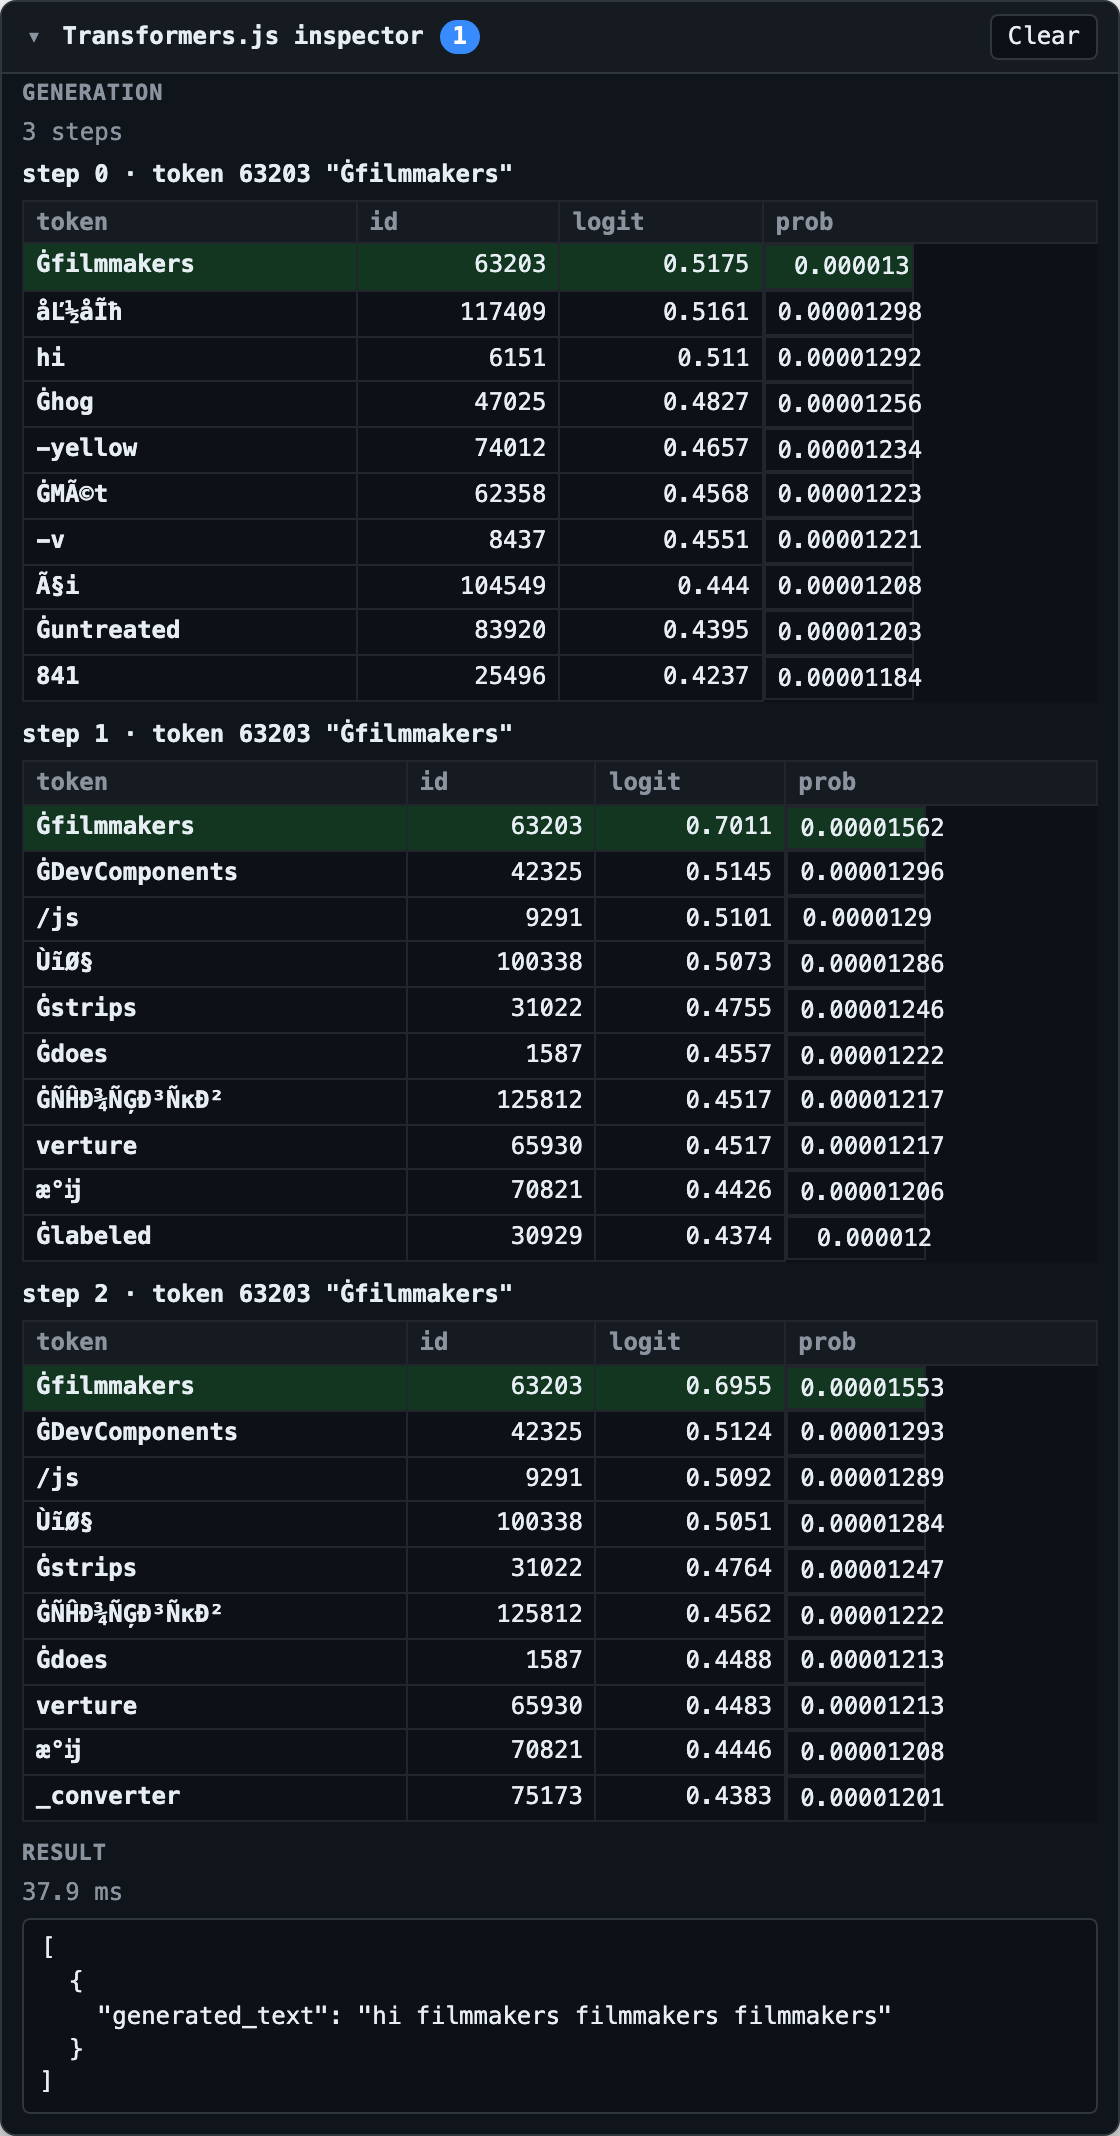
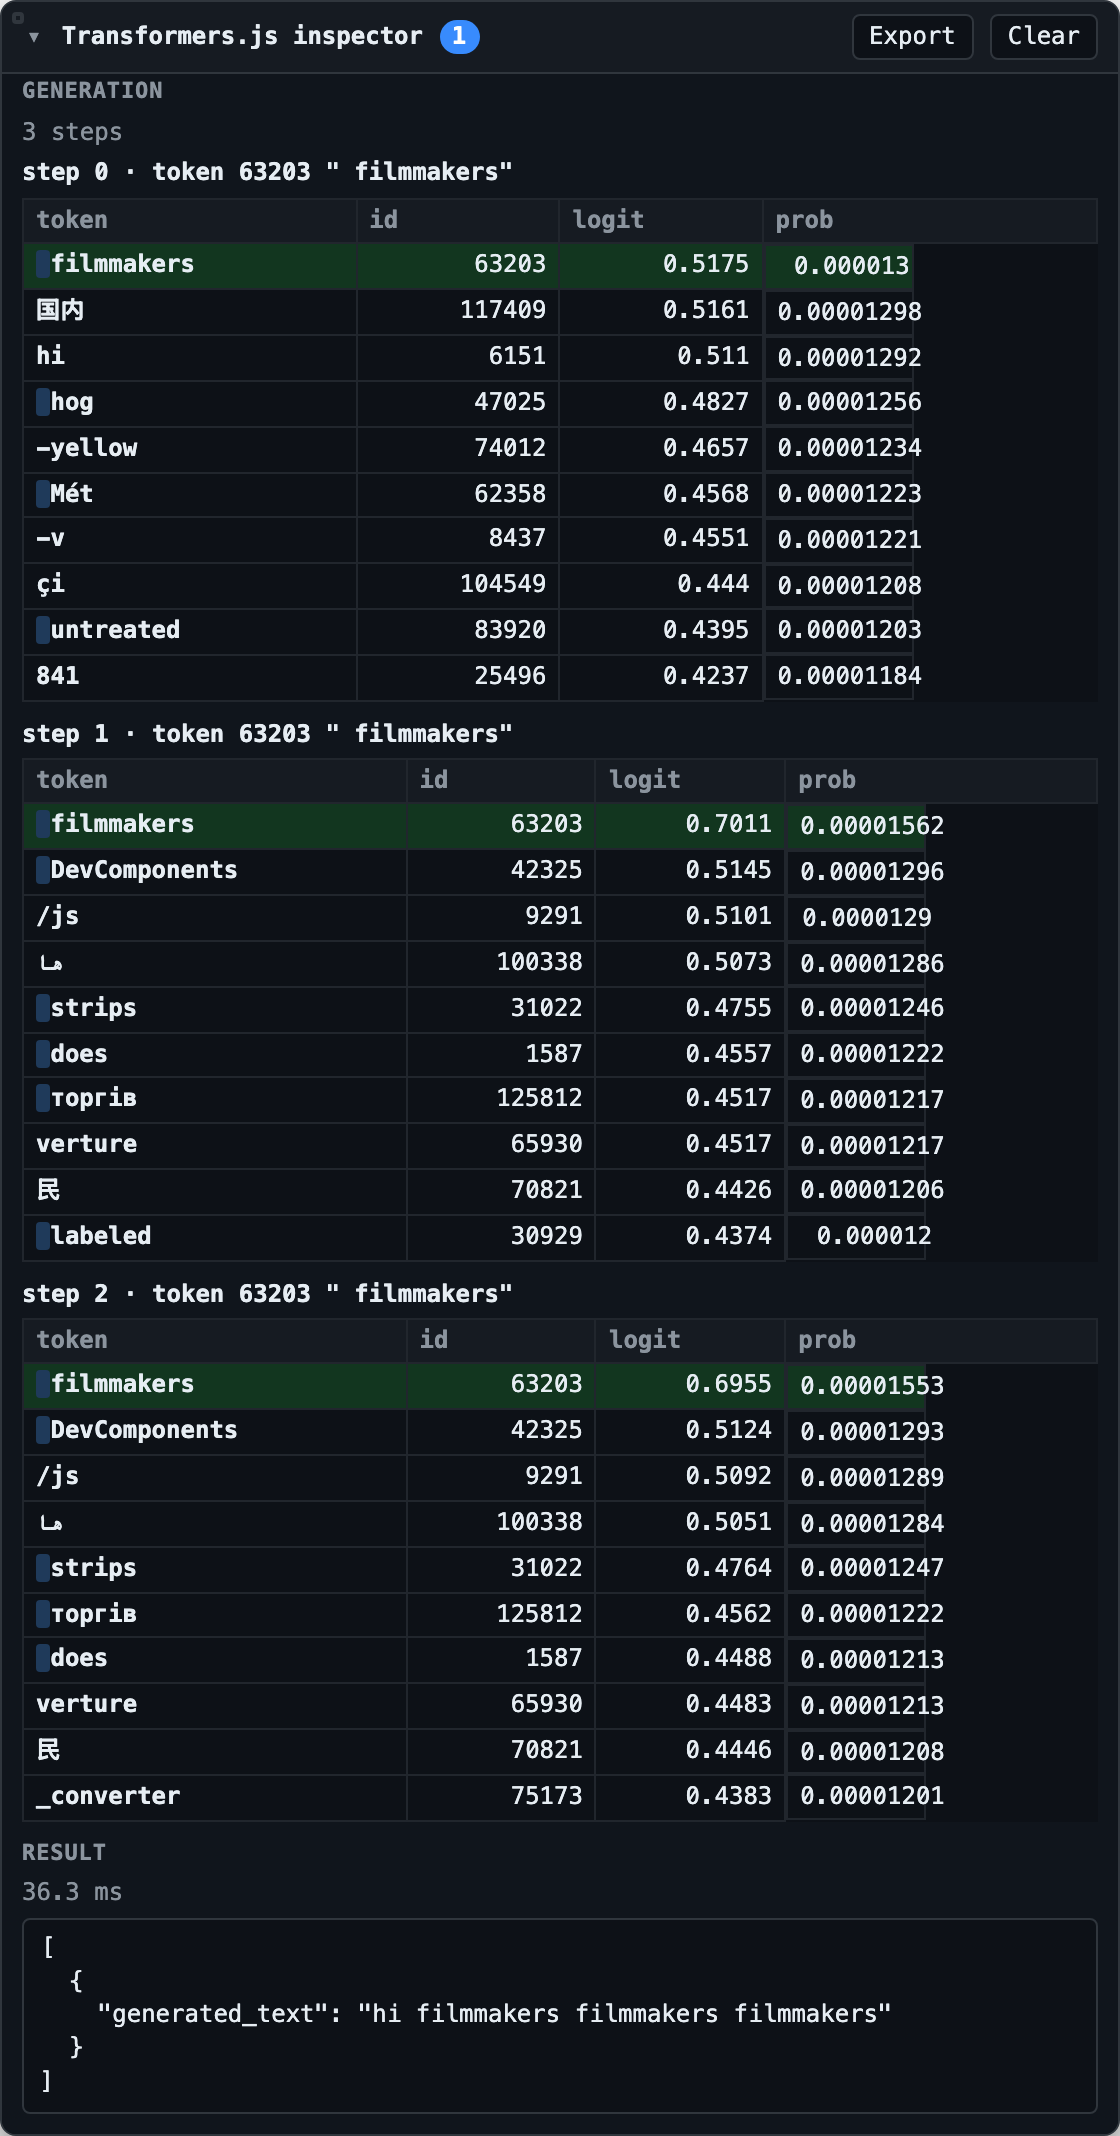
Release 0.2.0
Decoded token strings with raw vocab on hover, dark theme with a theme
option, dock corners and drag-to-resize, media previews (waveforms, image
thumbnails, tensor-as-image), export of the event stream, and replay of
captured calls. Screenshots regenerated.

diff --git a/src/version.ts b/src/version.ts
@@ -1,2 +1,2 @@
 /** Package version, mirrored from `package.json` (asserted by `test/smoke.test.ts`). Lives here so `export.ts` can import it without a cycle through `index.ts`. */
-export const VERSION = '0.1.1';
+export const VERSION = '0.2.0';

diff --git a/README.md b/README.md
@@ -11,7 +11,7 @@ generation, and the pipeline's decoded result.
 Zero runtime dependencies. Nothing on disk is patched; every hook is a runtime wrap of a
 method on an instance Transformers.js exposes. Nothing leaves the tab.
 
-**Status:** v0.1.0, verified against `@huggingface/transformers` 4.2.0 (Transformers.js
+**Status:** v0.2.0, verified against `@huggingface/transformers` 4.2.0 (Transformers.js
 4.x only). Not yet published to npm; the CDN URLs below resolve once it is.
 
 ## 30-second usage
@@ -43,7 +43,7 @@ Script tag, with Transformers.js from a CDN:
 ```html
 <script type="module">
   import { pipeline } from 'https://cdn.jsdelivr.net/npm/@huggingface/transformers@4.2.0';
-  import { attach } from 'https://cdn.jsdelivr.net/npm/transformersjs-inspector@0.1.0/dist/index.js';
+  import { attach } from 'https://cdn.jsdelivr.net/npm/transformersjs-inspector@0.2.0/dist/index.js';
 
   const pipe = await pipeline('text-generation', 'onnx-community/tiny-random-LlamaForCausalLM-ONNX');
   attach(pipe);
@@ -184,7 +184,7 @@ The file shape (`InspectorExport`):
 
 ```jsonc
 {
-  "version": "0.1.1",                  // library version that wrote it
+  "version": "0.2.0",                  // library version that wrote it
   "exportedAt": "2026-09-11T09:05:07.123Z",
   "events": [ /* InspectorEvent[], exactly as emitted, oldest first */ ]
 }
@@ -230,7 +230,7 @@ evaluates, whose `InferenceSession.create` wraps every session's `run`. Load it 
 script **before** the script that loads Transformers.js:
 
 ```html
-<script type="module" src="https://cdn.jsdelivr.net/npm/transformersjs-inspector@0.1.0/dist/preload.js"></script>
+<script type="module" src="https://cdn.jsdelivr.net/npm/transformersjs-inspector@0.2.0/dist/preload.js"></script>
 <script type="module">
   import { pipeline } from 'https://cdn.jsdelivr.net/npm/@huggingface/transformers@4.2.0';
   const pipe = await pipeline('feature-extraction', 'Xenova/all-MiniLM-L6-v2', { device: 'auto' });

diff --git a/AGENTS.md b/AGENTS.md
@@ -36,7 +36,7 @@ src/panel/   vanilla-DOM panel: model (reducer), dom (h()), styles, render, pane
 test/        Vitest unit tests + fakes.ts; never touches the network
 demo/        Vite demo pages; Transformers.js loaded from the CDN (demo/tf.ts), not npm
 e2e/         Playwright specs; persistent profile in .cache/pw-profile caches models
-docs/        00-brief, 01-research, 02-plan (design docs; read-only)
+docs/        00-brief, 01-research, 02-plan, 03-plan-v1.1 (design docs; read-only)
 ```
 
 ## Conventions
@@ -53,7 +53,7 @@ docs/        00-brief, 01-research, 02-plan (design docs; read-only)
 ## Do not
 
 - Edit `node_modules`, `dist/`, or `dist-demo/` (generated).
-- Edit `docs/00-brief.md`, `docs/01-research.md`, or `docs/02-plan.md`.
+- Edit `docs/00-brief.md`, `docs/01-research.md`, `docs/02-plan.md`, or `docs/03-plan-v1.1.md`.
 - Add runtime dependencies or a UI framework; dev deps stay at the 10 listed in the plan.
 
 <!-- loop-learned conventions appended below -->
